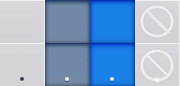
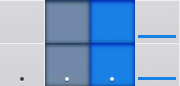
implement select date button

diff --git a/jqt.calendar.js b/jqt.calendar.js
@@ -23,7 +23,6 @@
 	days: Array of titles for the columns (default: ['Sun','Mon','Tue','Wed','Thu','Fri','Sat'])
 	months: Array of month names (default: ['January','February','March','April','May','June','July','August','September','October','November','December'])
 	weekstart: index of the position in the days array the week is to start on (default: 1)
-	callback: function to call on selecting a date, passing the date object
 	unselectableDateRules: {
 	    notBeforeDate: Date,
 	    notAfterDate: Date,
@@ -33,15 +32,19 @@
 	                            jqt.calendar.AnnualDate(month:int(1..12), day:int(1..31)) or
 	                            jqt.calendar.NthDayOfWeekInMonth(month:int(1..12), dayOfWeek:int(0..6), week:int(1..5))
 	}
+	doneBtn: id of button element to invoke callback
+	callback: function to call on selecting a date, passing the date object
 
 */
+
+var dayNames = ['Sunday','Monday','Tuesday','Wednesday','Thursday','Friday','Saturday'];
+var monthNames = ['January','February','March','April','May','June','July','August','September','October','November','December'];
 
 (function($) {
     if ($.jQTouch) {
         $.jQTouch.addExtension(function Calendar(jQT) {
 
-            // Load the calendar for the given date
-            jQuery.fn.getCalendar = function(options) {
+            jQuery.fn.createCalendar = function(options) {
                 var defaults = {
                     date: new Date(),
                     days: ['Sun', 'Mon', 'Tue', 'Wed', 'Thu', 'Fri', 'Sat'],
@@ -51,6 +54,23 @@
                 }
                 var settings = $.extend({},
                 defaults, options);
+
+                new FastButton($('#' + settings.doneBtn).get(0), function() {
+                    var settings = $el.data('settings');
+                    if (settings.date) {
+                        if (settings.callback != undefined) {
+                            settings.callback(settings.date);
+                        }
+                    } else {
+                        alert("No date has been selected!");
+                    }
+                    return false;
+                });
+                $(this).getCalendar(settings);
+            };
+
+            // Load the calendar for the given date
+            jQuery.fn.getCalendar = function(settings) {
 
                 return this.each(function() {
                     var $el = $(this);
@@ -62,7 +82,7 @@
                     $el.data('settings', settings);
 
                     //Read events from markup
-                    $el.loadEvents();
+                    //$el.loadEvents();
 
                     // clear existing calendar
                     $el.empty();
@@ -80,10 +100,17 @@
                     $el.setToday();
 
                     // If the selected date has events, load them
-                    $el.setSelected(settings.date);
-
+                    var day = settings.date.getDate();
+                    var month = settings.date.getMonth();
+                    var year = settings.date.getFullYear();
+                    var column = settings.date.getDay();
+                    if (!$el.isUnselectable(day, month, year, column)) {
+                        $el.setSelected(settings.date);
+                    } else {
+                        settings.date = '';
+                        $el.data('settings', settings);
+                    }
                 });
-
             };
 
             //Markup Reading
@@ -113,34 +140,30 @@
                 }
             }
 
-
-            //Markup Generation
-            jQuery.fn.dayMarkup = function(format, day, month, year, column) {
+            jQuery.fn.isUnselectable = function(day, month, year, column) {
                 var $el = $(this);
                 var settings = $el.data('settings');
-                var this_day = $('<td/>');
-                
                 var rules = settings.unselectableDateRules;
                 if (rules != undefined) {
                     if (rules.notBeforeDate != undefined &&
                         rules.notBeforeDate instanceof Date) {
                         var dt = new Date(year, month, day);
                         if (dt < $el.startOfDay(rules.notBeforeDate)) {
-                            this_day.addClass('unselectable');
+                            return true;
                         }
                     }
                     if (rules.notAfterDate != undefined &&
                         rules.notAfterDate instanceof Date) {
                         var dt = new Date(year, month, day);
                         if (dt >= $el.endOfDay(rules.notAfterDate)) {
-                            this_day.addClass('unselectable');
+                            return true;
                         }
                     }
                     if (rules.weekdays != undefined &&
                         rules.weekdays instanceof Array) {
                         for (var i in rules.weekdays) {
                             if (column == rules.weekdays[i]) {
-                                this_day.addClass('unselectable');
+                                return true;
                             }
                         }
                     }
@@ -152,7 +175,7 @@
                                 if (year == unselectableDate.getFullYear() &&
                                     month == unselectableDate.getMonth() &&
                                     day == unselectableDate.getDate()) {
-                                    this_day.addClass('unselectable');
+                                    return true;
                                 }
                             } else
                             if (rules.specificDates[i] instanceof jqt.calendar.DateRange) {
@@ -160,7 +183,7 @@
                                 var dateRange = rules.specificDates[i];
                                 if (dt >= $el.startOfDay(dateRange.startDate) &&
                                     dt < $el.endOfDay(dateRange.endDate)) {
-                                    this_day.addClass('unselectable');
+                                    return true;
                                 }
                             }
                         }
@@ -175,7 +198,7 @@
                                     dateRange.endDate instanceof jqt.calendar.AnnualDate) {
                                     if (dt >= dateRange.getAnnualStartDateForYear(year) &&
                                         dt <= dateRange.getAnnualEndDateForYear(year)) {
-                                        this_day.addClass('unselectable');
+                                        return true;
                                     }
                                 }
                             } else
@@ -183,7 +206,7 @@
                                 var unselectableDate = rules.specificAnnualDates[i];
                                 if (month == (unselectableDate.month - 1) &&
                                     day == unselectableDate.day) {
-                                    this_day.addClass('unselectable');
+                                    return true;
                                 }
                             } else
                             if (rules.specificAnnualDates[i] instanceof jqt.calendar.NthDayOfWeekInMonth) {
@@ -191,12 +214,23 @@
                                 if (year == unselectableDate.getFullYear() &&
                                     month == unselectableDate.getMonth() &&
                                     day == unselectableDate.getDate()) {
-                                    this_day.addClass('unselectable');
+                                    return true;
                                 }
                             }
                         }
                     }
                 }
+                return false;
+            }
+
+            //Markup Generation
+            jQuery.fn.dayMarkup = function(format, day, month, year, column) {
+                var $el = $(this);
+                var settings = $el.data('settings');
+                var this_day = $('<td/>');
+
+                if ($el.isUnselectable(day, month, year, column))
+                    this_day.addClass('unselectable');
 
                 if (format == 0) {
                     this_day.addClass('prevmonth');
@@ -326,6 +360,24 @@
             jQuery.fn.dateToString = function(date) {
                 return date.getFullYear() + "-" + (date.getMonth() + 1) + "-" + date.getDate();
             }
+            jQuery.fn.dateToUSFormatString = function(date) {
+                var d = date.getDate() + '';
+                var suf = '';
+                switch(d.substr(-1)) {
+                    case '1':
+                        suf = 'st';
+                        break;
+                    case '2':
+                        suf = 'nd';
+                        break;
+                    case '3':
+                        suf = 'rd';
+                        break;
+                    default:
+                        suf = 'th';
+                }
+                return dayNames[date.getDay()] + ', ' + d + suf + ' ' + monthNames[date.getMonth()] + ', ' + date.getFullYear();
+            }
             jQuery.fn.startOfDay = function(date) {
                 return new Date(date.getFullYear(), date.getMonth(), date.getDate());
             }
@@ -351,7 +403,8 @@
 
                 var returnable = '';
 
-                $.each($el.data('events')["" + year + "-" + month + "-" + day + ""],
+                // $.each($el.data('events')["" + year + "-" + month + "-" + day + ""],
+                $.each($el.data('events')["all"],
                 function(index, value) {
                     returnable += '<li><span>' + value.time + '</span>' + value.text + '</li>';
                 });
@@ -364,7 +417,7 @@
                 var $el = $(this);
 
                 // Days
-                $el.find('td').each(function(index, domEle) {
+                $el.find('td:not(.unselectable)').each(function(index, domEle) {
                     new FastButton(domEle, function(event) {
                         $el.removeSelectedCell();
                         var $td = $(event.target);
@@ -372,23 +425,22 @@
                         var clickedDate = $el.getCellDate($td);
                         $el.setToday();
 
-                        if ($td.hasClass('date_has_event')) {
-                            $el.getEvents(clickedDate);
-                        } else {
-                            $el.getNoEvents();
-                        }
+                        $el.setSelected(clickedDate);
+
+                        // if ($td.hasClass('date_has_event')) {
+                        //     $el.getEvents(clickedDate);
+                        // } else {
+                        //     $el.getNoEvents();
+                        // }
+
                         if (jQT.bars) {
                             jQT.setPageHeight();
                         }
 
-                        if ($td.hasClass('prevmonth') || $td.hasClass('nextmonth')) {
-                            $el.getCalendar({
-                                date: clickedDate
-                            });
-                        }
                         var settings = $el.data('settings');
-                        if (settings.callback != undefined) {
-                            settings.callback(clickedDate);
+                        settings.date = clickedDate;
+                        if ($td.hasClass('prevmonth') || $td.hasClass('nextmonth')) {
+                            $el.getCalendar(settings);
                         }
                     });
                 });
@@ -421,11 +473,21 @@
                     var clickedDate = $el.getCellDate($(this));
                     if (!$(this).hasClass("prevmonth") && !$(this).hasClass("nextmonth") && ($el.sameDay(date, clickedDate))) {
                         $(this).addClass('selected');
-                        if ($(this).hasClass('date_has_event')) {
-                            $el.getEvents(date);
-                        } else {
-                            $el.getNoEvents();
-                        }
+
+                        var events = {
+                            all: [{
+                                time: '',
+                                text: 'Selected date: ' + $el.dateToUSFormatString(date)
+                            }]
+                        };
+                        $el.data('events', events);
+                        $el.getEvents(date);
+
+                        // if ($(this).hasClass('date_has_event')) {
+                        //     $el.getEvents(date);
+                        // } else {
+                        //     $el.getNoEvents();
+                        // }
                     }
                 });
                 $el.setToday();
@@ -440,8 +502,12 @@
 
                 if ($el.find('.selected').length >= 1) {
                     var day = $(this).stringToDate($el.find('.selected').attr('datetime')).getDate();
-                } else {
+                } else
+                if ($el.find('.today').length >= 1) {
                     var day = $(this).stringToDate($el.find('.today').attr('datetime')).getDate();
+                } else {
+                    var today = new Date();
+                    var day = today.getDate();
                 }
                 var month = $el.find('table').data('month');
 

diff --git a/jqt.calendar.css b/jqt.calendar.css
@@ -39,6 +39,9 @@ Disabled the bottom bar to show the click area in color
     text-align: center;
     vertical-align: middle;
     width: 45px;
+    cursor: default;
+}
+.jqt_calendar td:not(.unselectable) {
     cursor: pointer;
 }
 .jqt_calendar td:last-child, .jqt_calendar th:last-child {
@@ -73,12 +76,13 @@ Disabled the bottom bar to show the click area in color
 }
 
 .jqt_calendar td.unselectable {
-    background-position: 45px 0px;
-    color: #AAA;
+    background: url(images/cells.png) repeat scroll 0 0 transparent;
+    background-position: 135px 0px;
+    color: #CBC9D0;
 }
 .jqt_calendar td.unselectable.date_has_event {
-    background-position: 45px 43px;
-    color: #AAA;
+    background-position: 135px 43px;
+    color: #CBC9D0;
 }
 
 .jqt_calendar td.date_has_event {
@@ -133,6 +137,7 @@ Disabled the bottom bar to show the click area in color
     border: none !important;
     min-height: 30px;
     font-weight: bold;
+    font-size: 13px;
 }
 .jqt_calendar ul li span {
     font-size: 10px;
